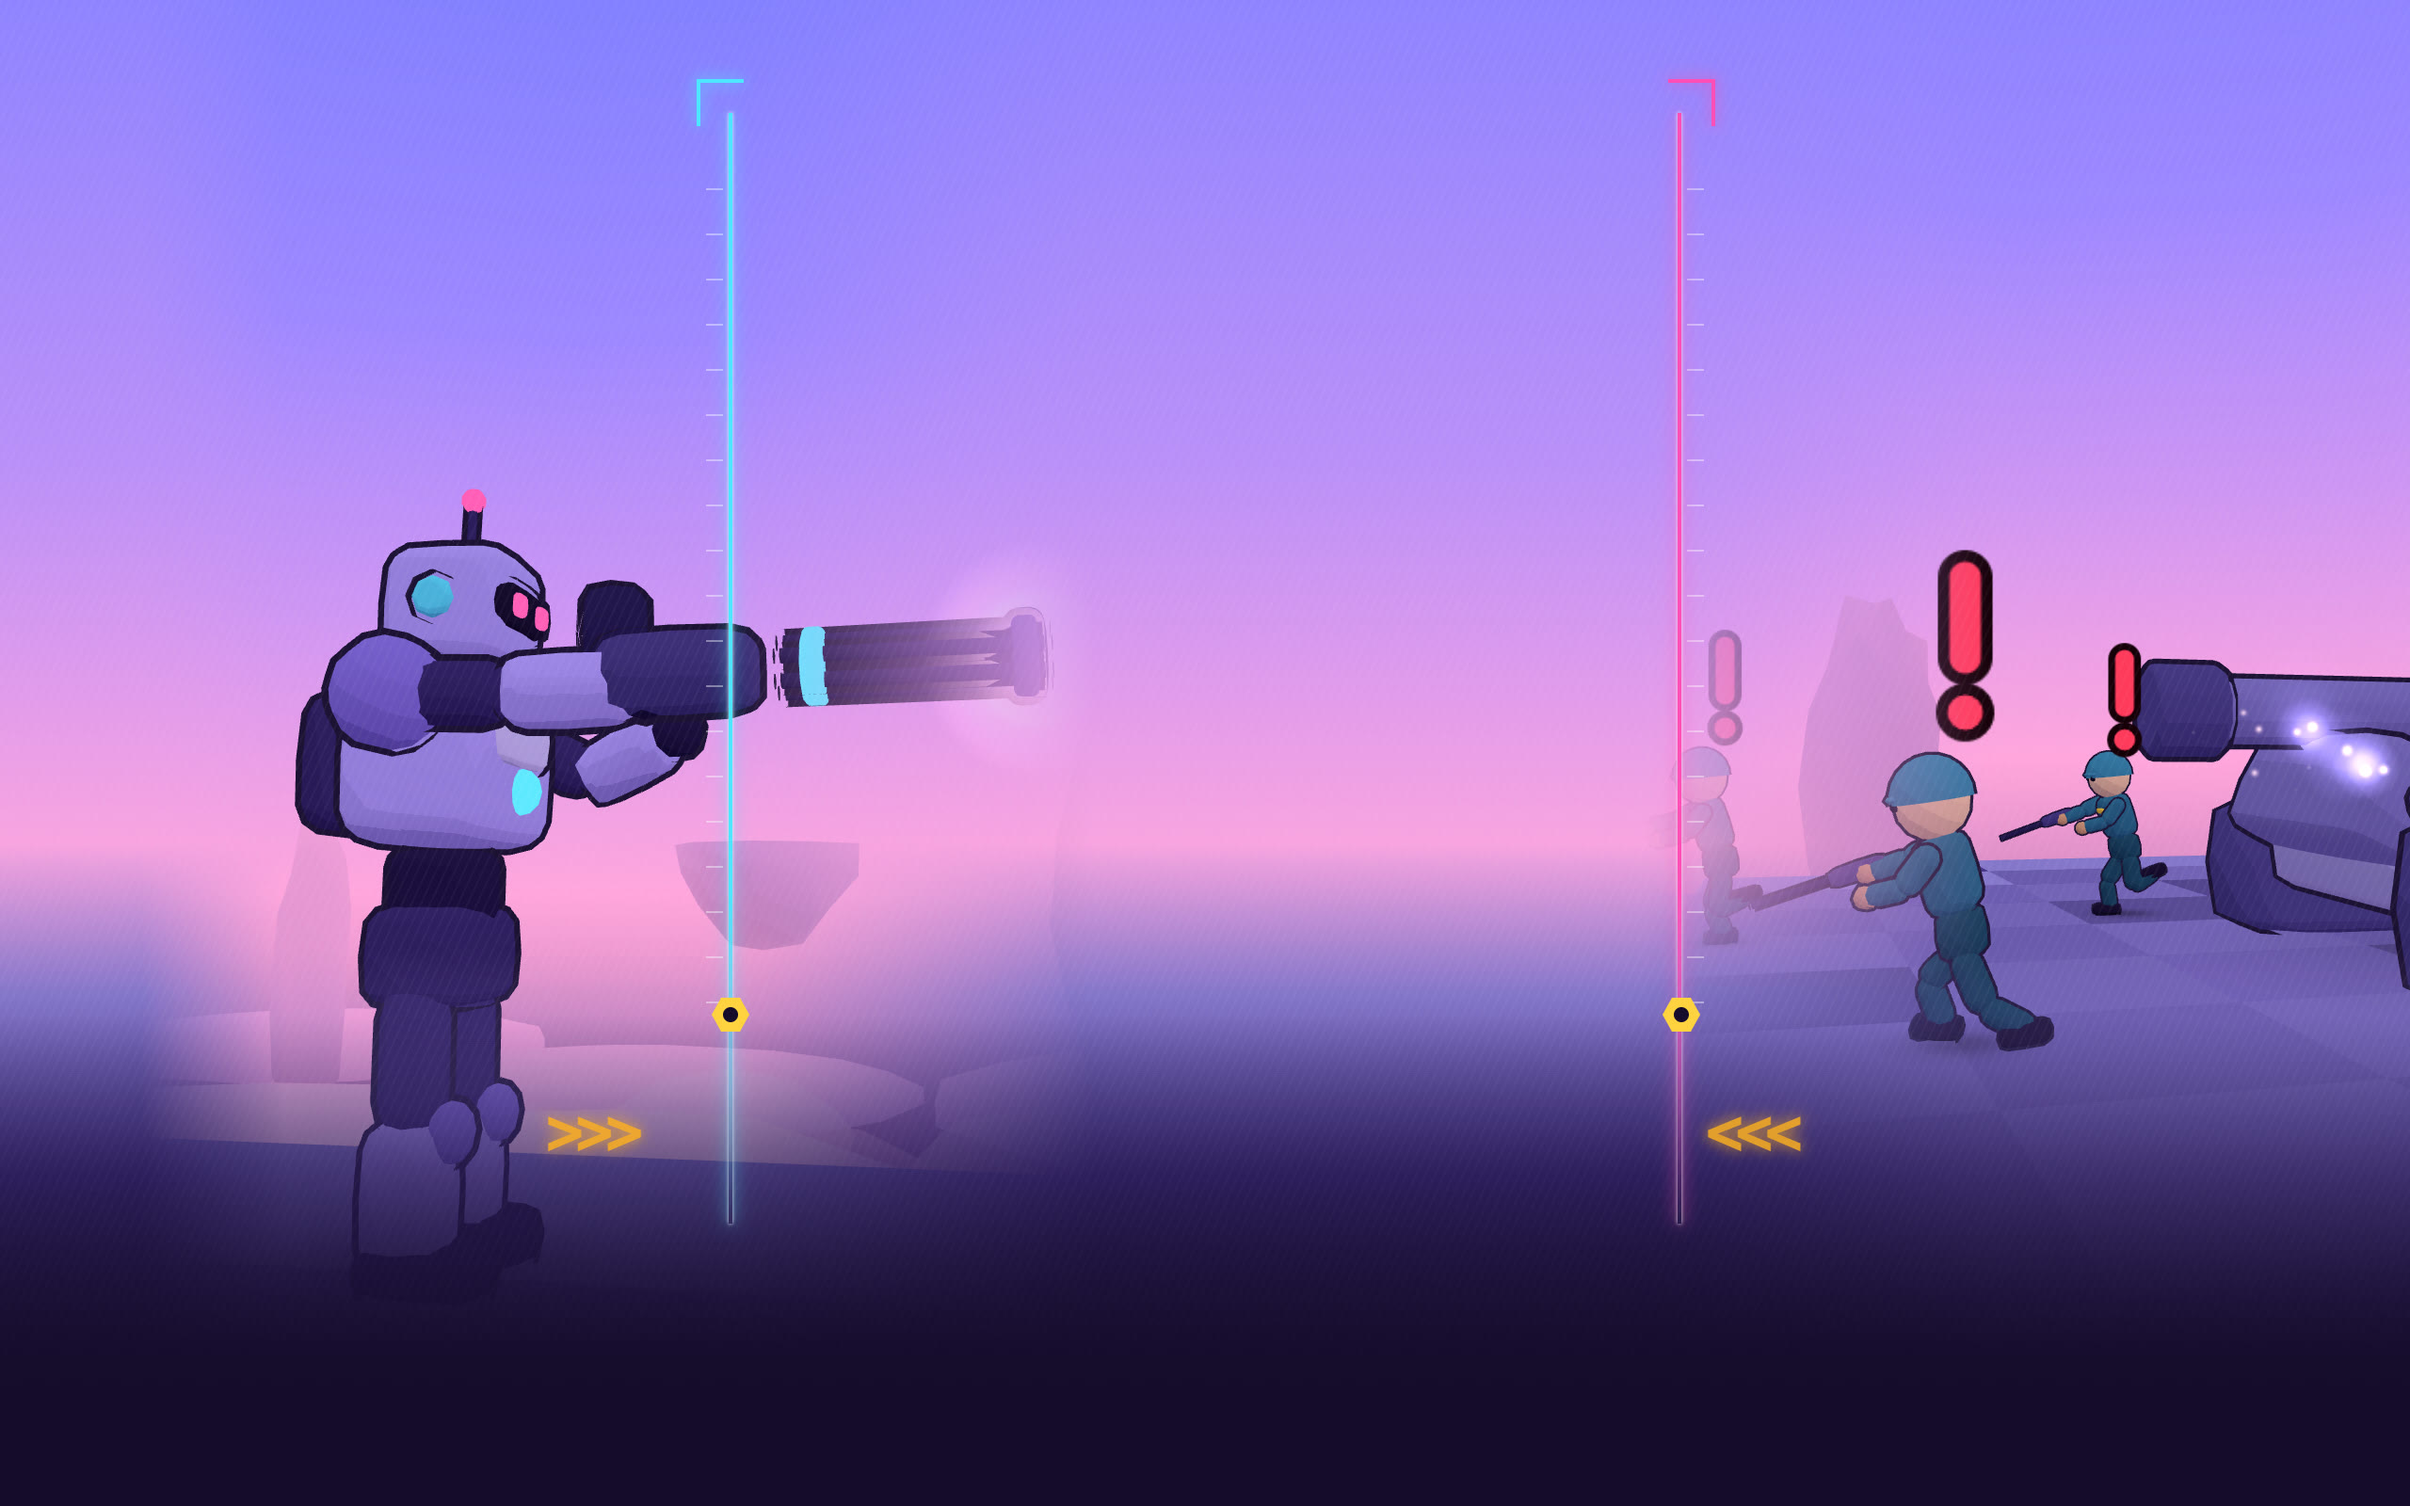
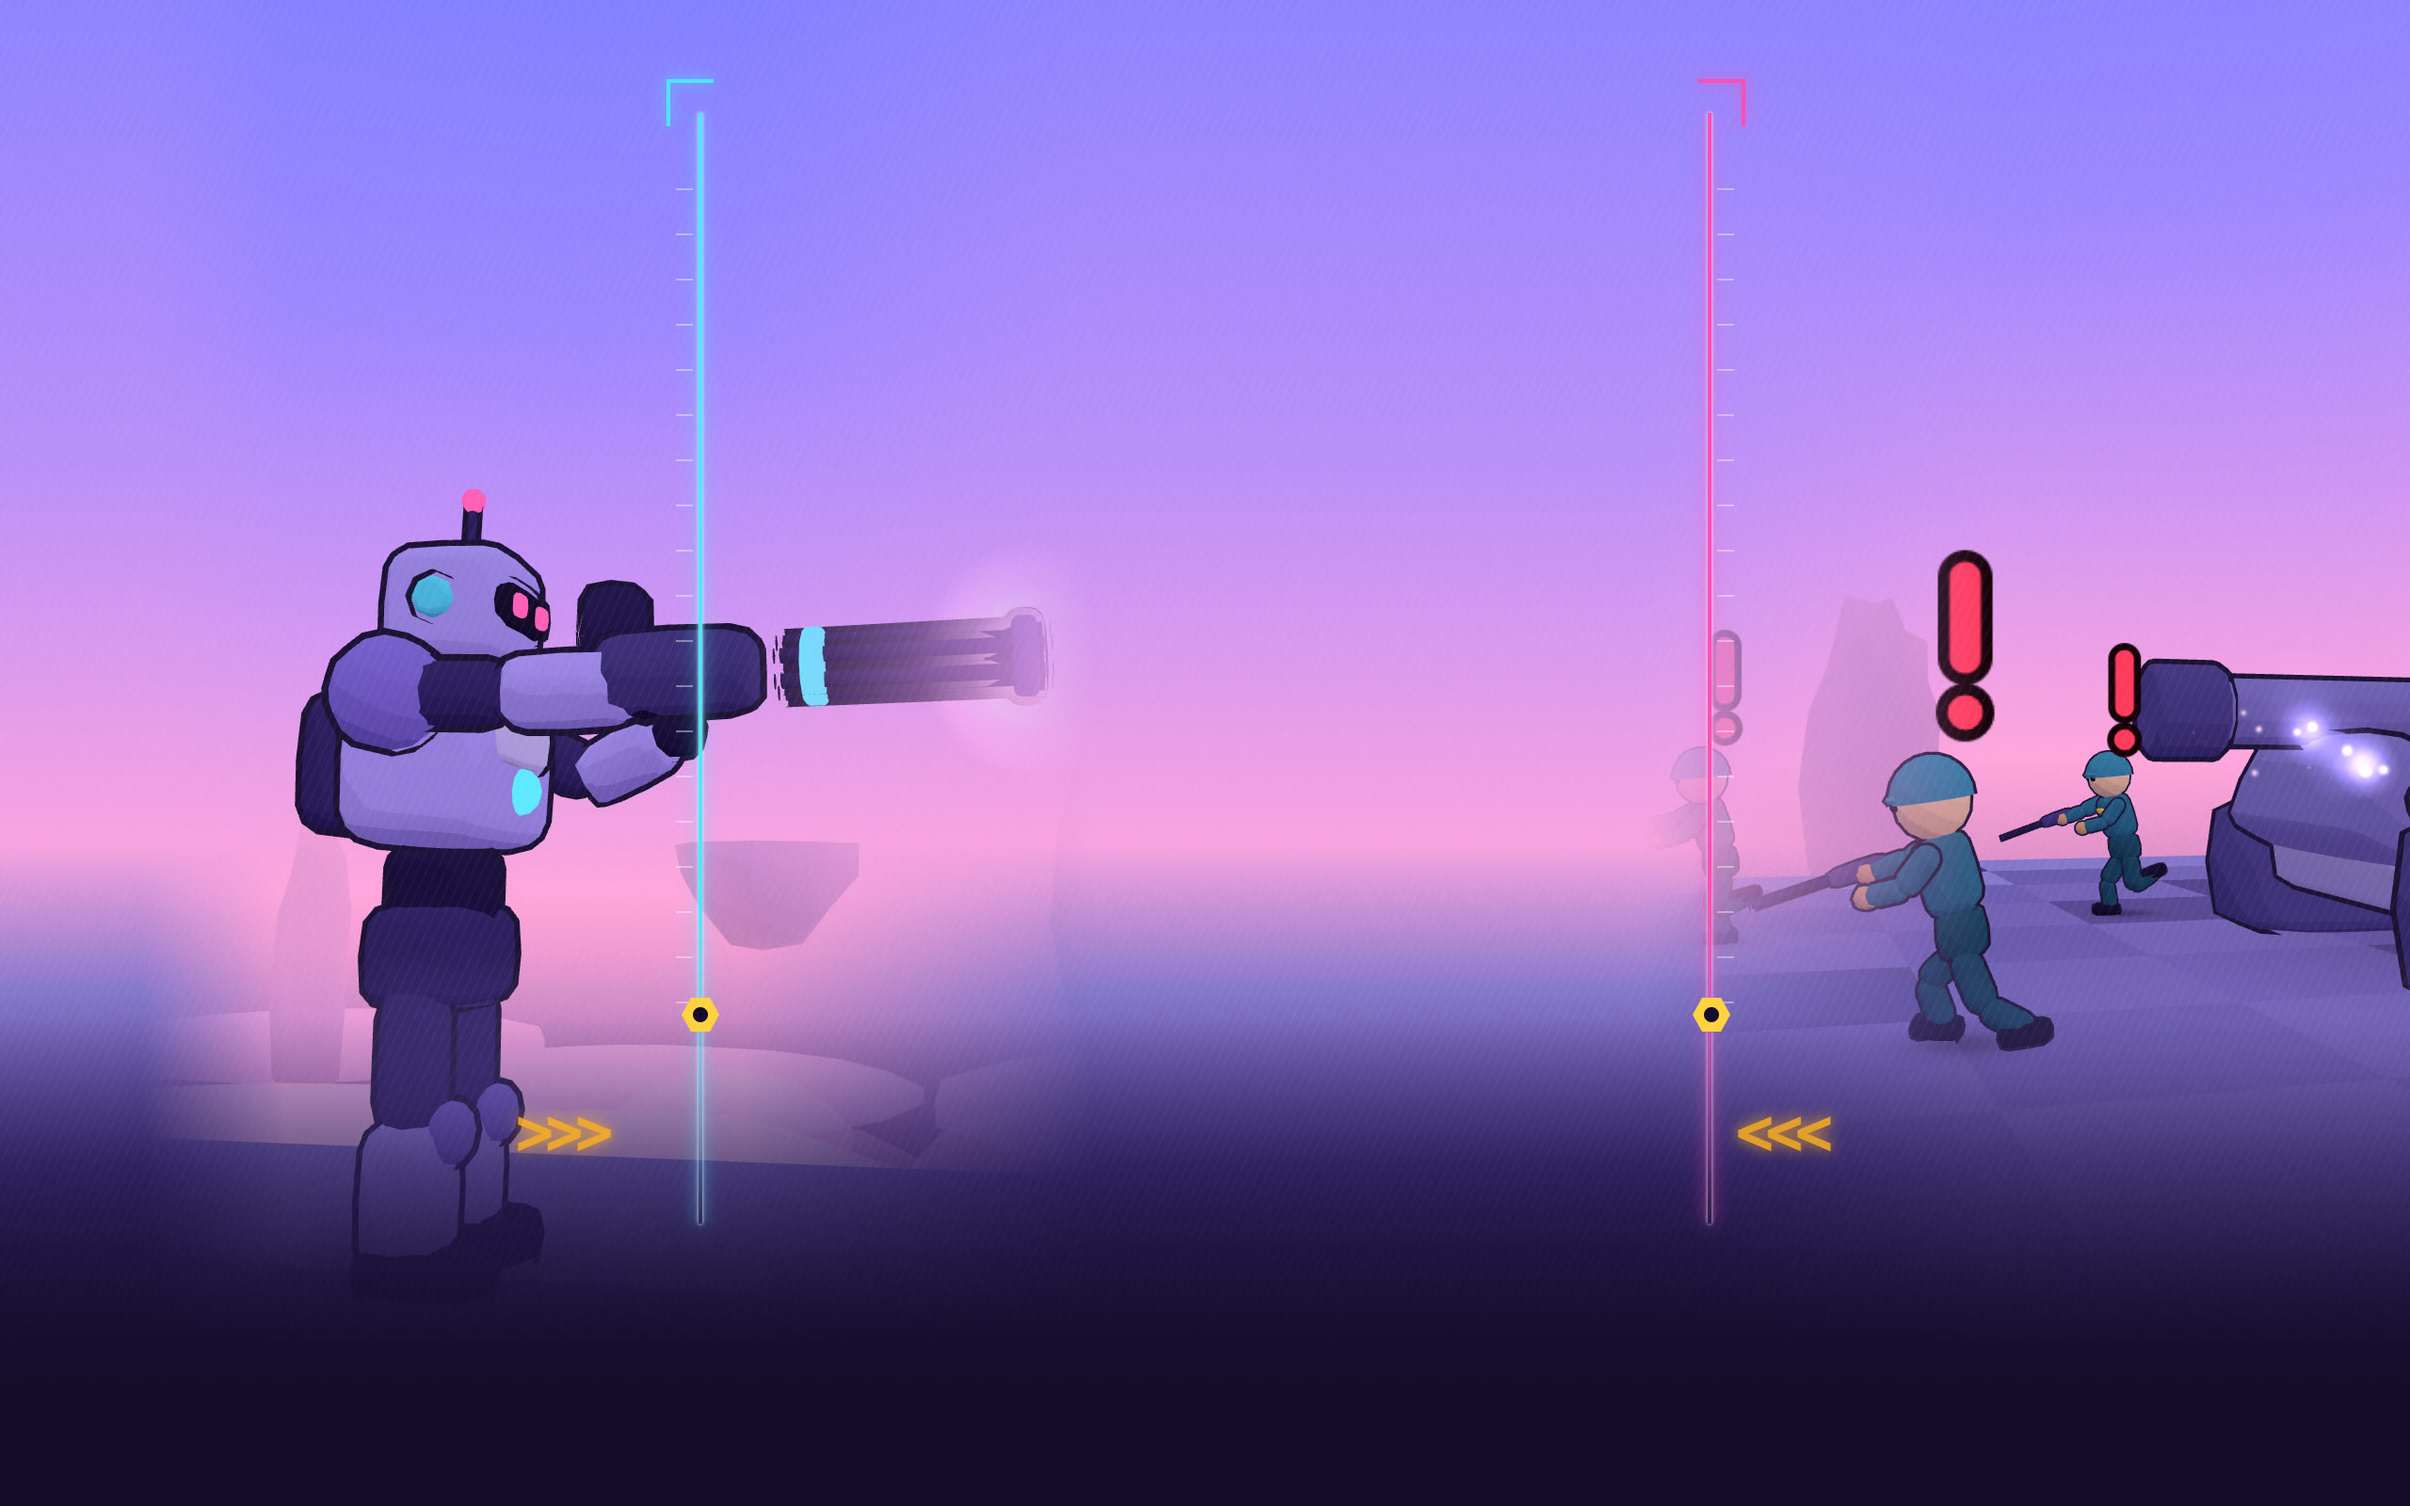
#138: the itch page background for its 1024 px column; the theme as applied

Changed region(s): [[0.6875, 0.0625, 0.7812, 0.8125], [0.2188, 0.0625, 0.3125, 0.8125]]

diff --git a/src/assets/promotion/itch/README.md b/src/assets/promotion/itch/README.md
@@ -3,7 +3,7 @@
 `itch-background-2560x1600.jpg` (or the `.png`) is the page background: two
 in-game panels, CM-07 firing the minigun on the left and a guard squad with
 the Goliath charging on the right, framed in the game's UI language (neon
-rails just outside itch's 960 px column, cut-corner brackets, ruler ticks,
+rails just outside the page's 1024 px column (the game embed sets it), cut-corner brackets, ruler ticks,
 the scrap hex nut, gold chevrons), the dusk sky between them, fading into the
 page colour. Composed so the subjects sit in the bands a 1920 px screen shows
 beside the column (`itch-page-preview-1920.png`); a wider screen shows more.
@@ -12,14 +12,17 @@ beside the column (`itch-page-preview-1920.png`); a wider screen shows more.
 
 | setting | value |
 |---|---|
-| Background image | `itch-background-2560x1600.jpg`, **no repeat**, **top center** |
+| Background image | `itch-background-2560x1600.jpg`, **no repeat**, **center**, not fixed |
 | BG color | `#150c2b` |
 | BG2 color (the column) | `#1f1246` |
 | Text color | `#e9e4ff` |
 | Link color | `#4de8ff` |
 | Button color | `#ff4fb6` (button text `#ffffff`) |
 | Border color | `#4de8ff` |
-| Header font / body font | Chakra Petch is not on itch's list: pick a squared sans (e.g. "Exo" or "Oxanium" if offered), else the default |
+| Font and header font | **Chakra Petch** (itch's Google Font picker) |
+| Embed BG | none |
+
+Applied to https://konstantinsteinmiller.itch.io/choas-machine on 2026-10-05.
 
 Keep the page simple: the title logo, the game embed, the trailer, three or
 four screenshots from `../screenshot-*`, the controls, credits.
